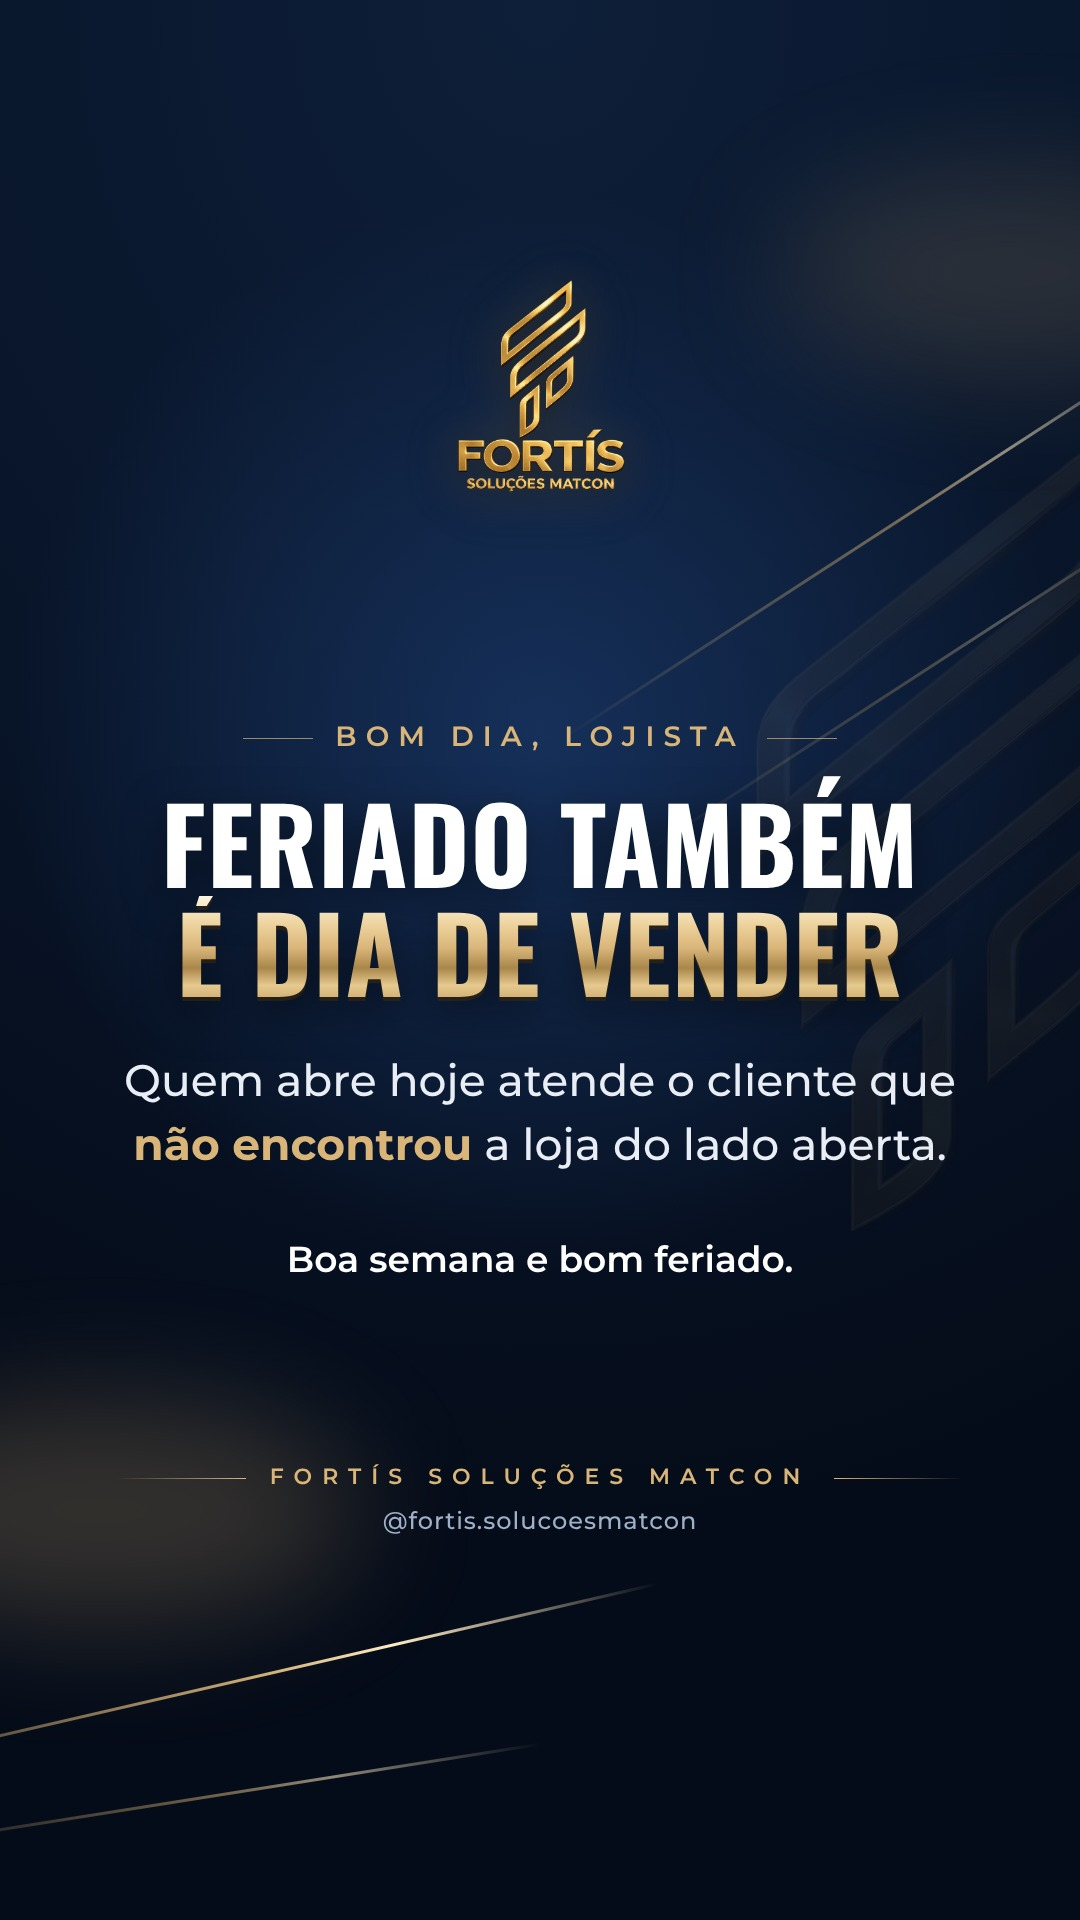
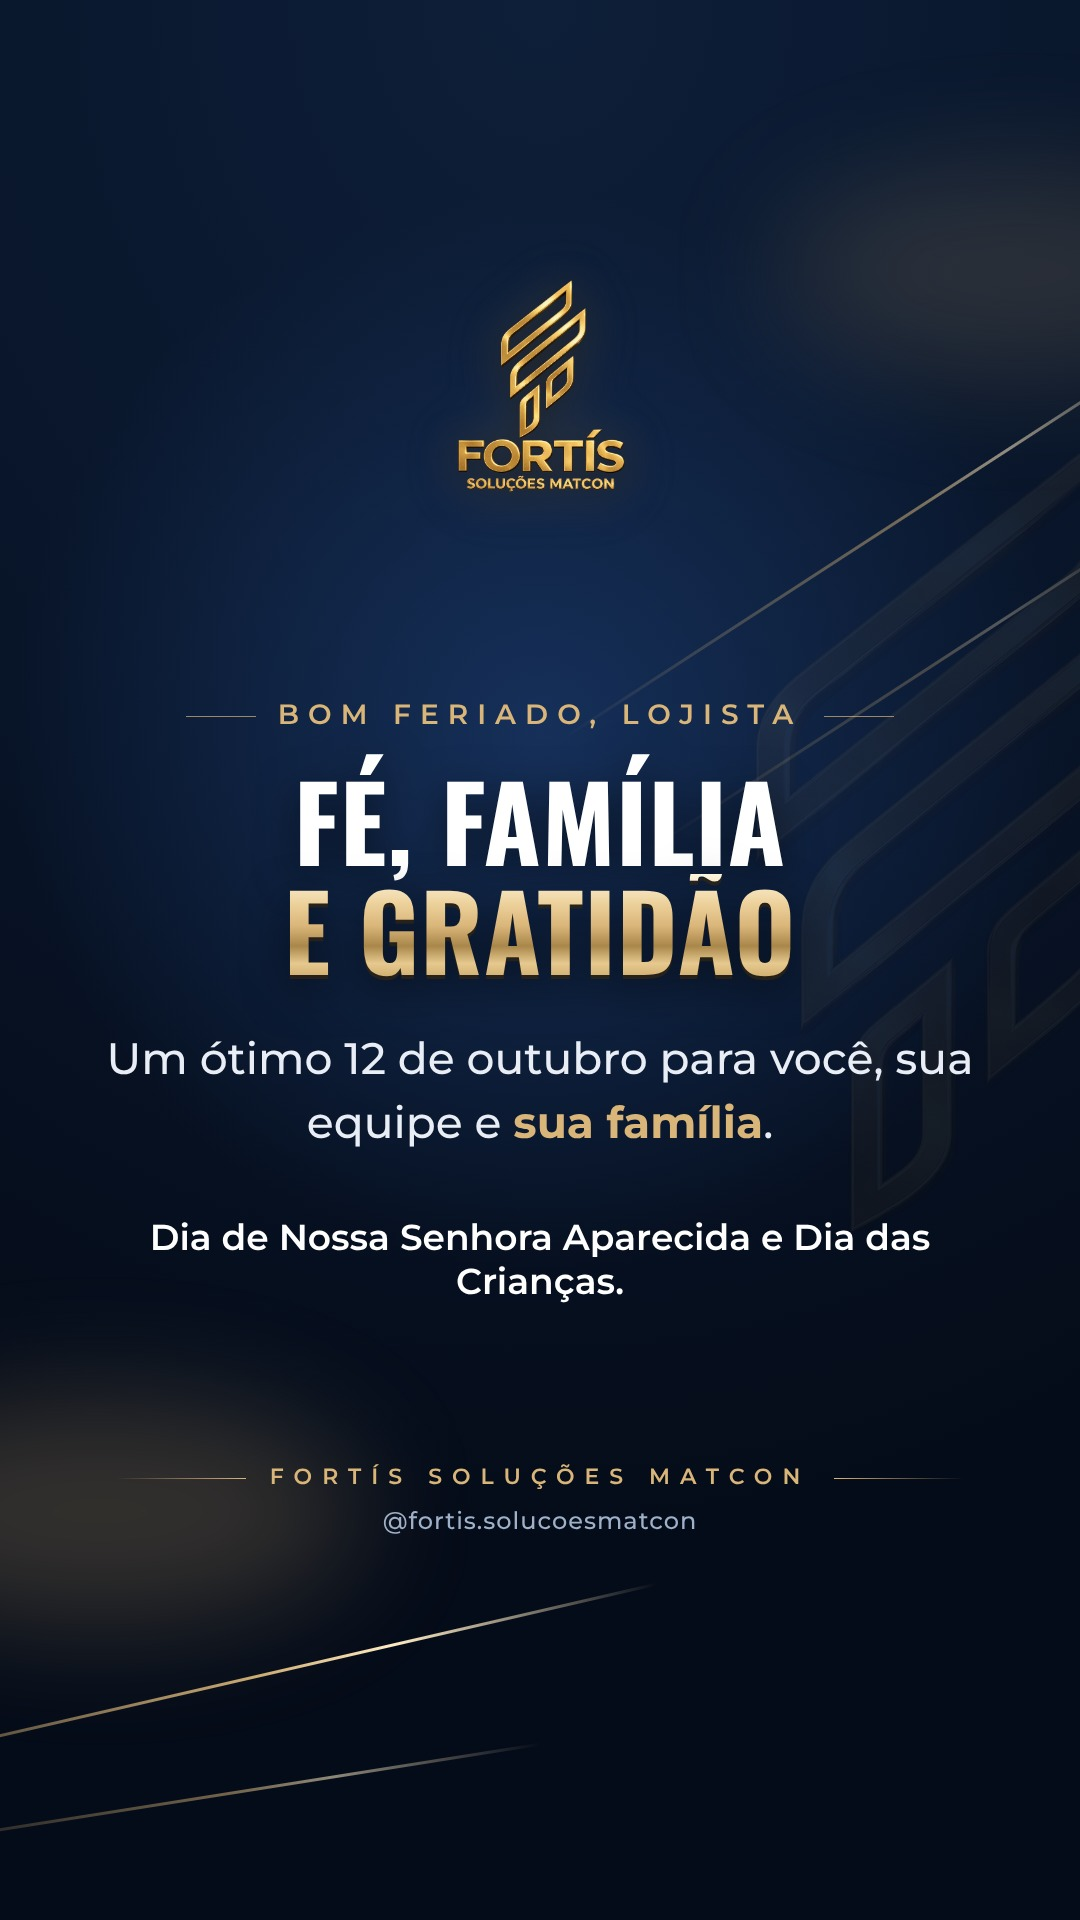
Dicas das 18h, post de 12/10 (Aparecida e Dia das Crianças) e semana 2 reorganizada
Claude-Session: https://claude.ai/code/session_01HVzRnNg6pzCVkCeZ2TrhZb

Changed region(s): [[0.0917, 0.3438, 0.9167, 0.6875], [0.6722, 0.3438, 0.7028, 0.375], [0.2444, 0.3438, 0.275, 0.375]]

diff --git a/gerador/gerador.py b/gerador/gerador.py
@@ -31,6 +31,8 @@ ICONES = {
  "giro": '<path d="M48 22a18 18 0 1 0 3 16"/><path d="M50 10v12H38"/>',
  "lista": '<path d="M24 16h28M24 32h28M24 48h28"/><path d="M10 14l3 3 5-6M10 30l3 3 5-6M10 46l3 3 5-6"/>',
  "calendario": '<rect x="10" y="14" width="44" height="40" rx="4"/><path d="M10 26h44M22 8v12M42 8v12M20 36h6M30 36h6M40 36h6M20 44h6"/>',
+ "coracao": '<path d="M32 54C14 40 8 31 8 22a12 12 0 0 1 24-4 12 12 0 0 1 24 4c0 9-6 18-24 32z"/>',
+ "camera": '<rect x="8" y="18" width="48" height="34" rx="5"/><circle cx="32" cy="35" r="10"/><path d="M22 18l4-6h12l4 6"/>',
  "carrinho": '<path d="M6 10h8l6 30h30l6-20H18"/><circle cx="24" cy="50" r="4"/><circle cx="46" cy="50" r="4"/>',
 }
 
@@ -217,6 +219,30 @@ def carrossel(p):
         out.append((f"{p['arquivo']}-{i+1}", corpo))
     return out
 
+def dica(p):
+    w, h = 1080, 1350
+    tit = "".join(f'<div class="{"metal" if i == len(p["titulo"]) - 1 else "branco"}">{e(t)}</div>' for i, t in enumerate(p["titulo"]))
+    return f"""<div class="arte" style="width:{w}px;height:{h}px">{fundo(w,h,.9)}
+  <img class="logo" src="{A}/logo.png" style="top:54px;width:150px">
+  <div class="kicker" style="top:290px;font-size:24px">{e(p.get('kicker', 'DICA RÁPIDA'))}</div>
+  <div class="card" style="position:absolute;left:465px;top:350px;width:150px;height:150px;border-radius:50%;display:flex;align-items:center;justify-content:center">{icone(p['icone'], 84)}</div>
+  <div class="titulo" data-max="920" data-fs="104" style="top:540px;line-height:1.03">{tit}</div>
+  <p class="sub" style="top:{p.get('sub_top', 790)}px;left:110px;right:110px;font-size:34px">{rich(p['sub'])}</p>
+  <p class="cta" style="top:1110px;font-size:28px;color:var(--gold)">{rich(p.get('frase', 'Salve este post para usar depois.'))}</p>
+  <div class="rodape" style="bottom:52px;font-size:21px">FORTÍS SOLUÇÕES MATCON</div>
+</div>"""
+
+def mensagem(p):
+    w, h = 1080, 1350
+    tit = "".join(f'<div class="{"metal" if i == len(p["titulo"]) - 1 else "branco"}">{e(t)}</div>' for i, t in enumerate(p["titulo"]))
+    return f"""<div class="arte" style="width:{w}px;height:{h}px">{fundo(w,h,.9)}
+  <img class="logo" src="{A}/logo.png" style="top:150px;width:220px">
+  <div class="kicker" style="top:480px;font-size:26px">{e(p['kicker'])}</div>
+  <div class="titulo" data-max="920" data-fs="92" style="top:540px;line-height:1.05">{tit}</div>
+  <p class="sub" style="top:{p.get('sub_top', 800)}px;left:120px;right:120px;font-size:34px">{rich(p['sub'])}</p>
+  <div class="rodape" style="bottom:52px;font-size:21px">FORTÍS SOLUÇÕES MATCON</div>
+</div>"""
+
 def pagina(corpo):
     return f'<!doctype html><html lang="pt-BR"><head><meta charset="utf-8"><style>{CSS_BASE}{CSS_EXTRA}</style></head><body>{corpo}<script>{AJUSTE_JS}</script></body></html>'
 
@@ -245,6 +271,10 @@ def main(arq):
         if modelo == "carrossel":
             for nome, corpo in carrossel(p):
                 itens.append((nome, corpo, (1080, 1350)))
+        elif modelo == "dica":
+            itens.append((p["arquivo"], dica(p), (1080, 1350)))
+        elif modelo == "mensagem":
+            itens.append((p["arquivo"], mensagem(p), (1080, 1350)))
         elif modelo == "foto":
             itens.append((p["arquivo"], feed_foto(p), (1080, 1350)))
         else:
